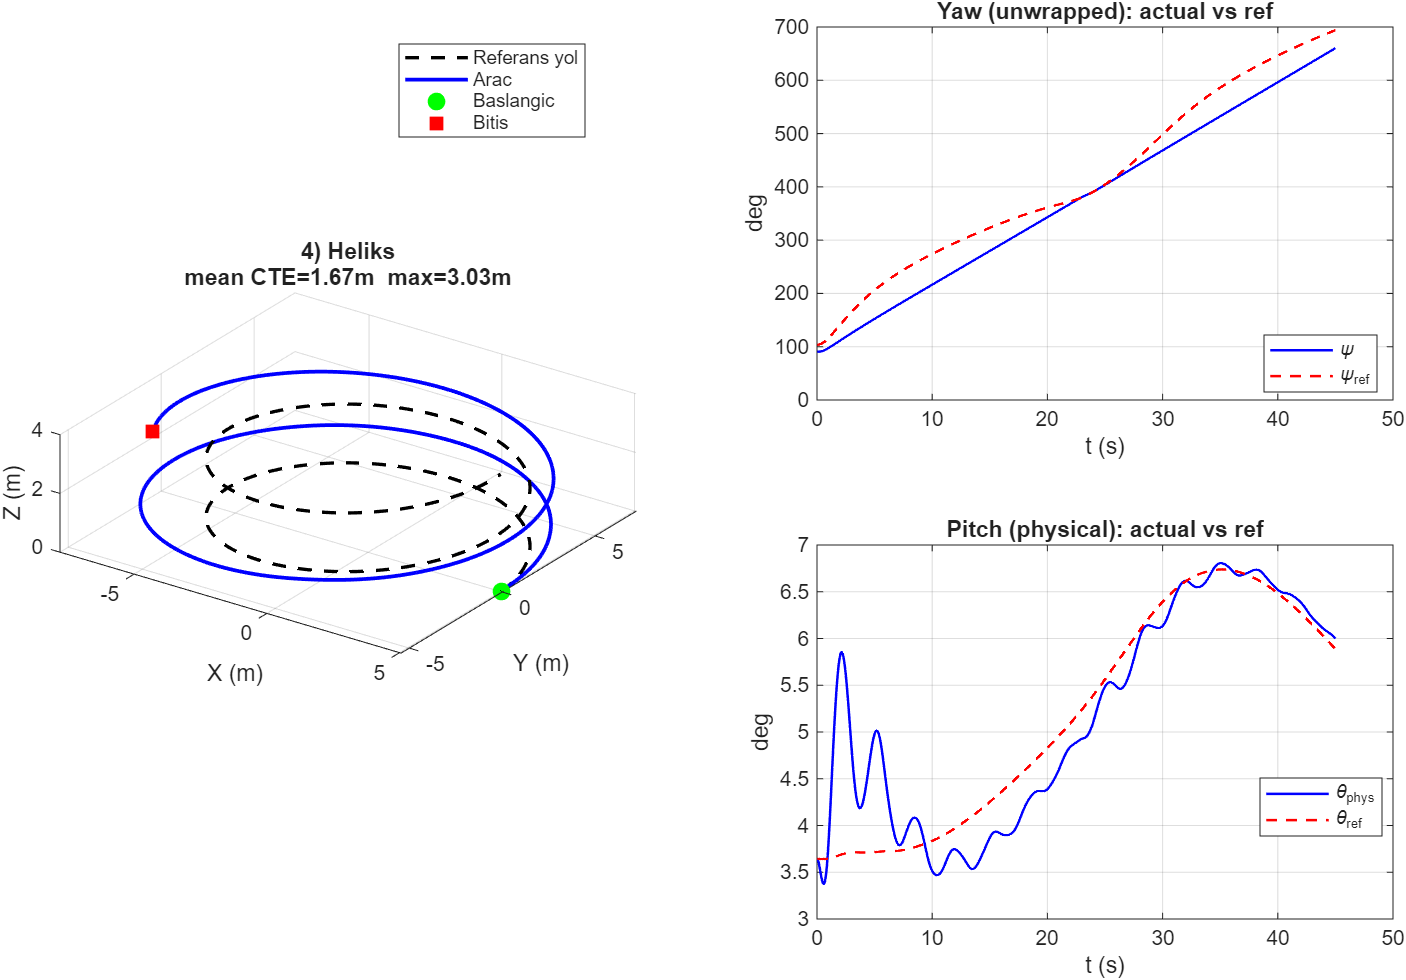
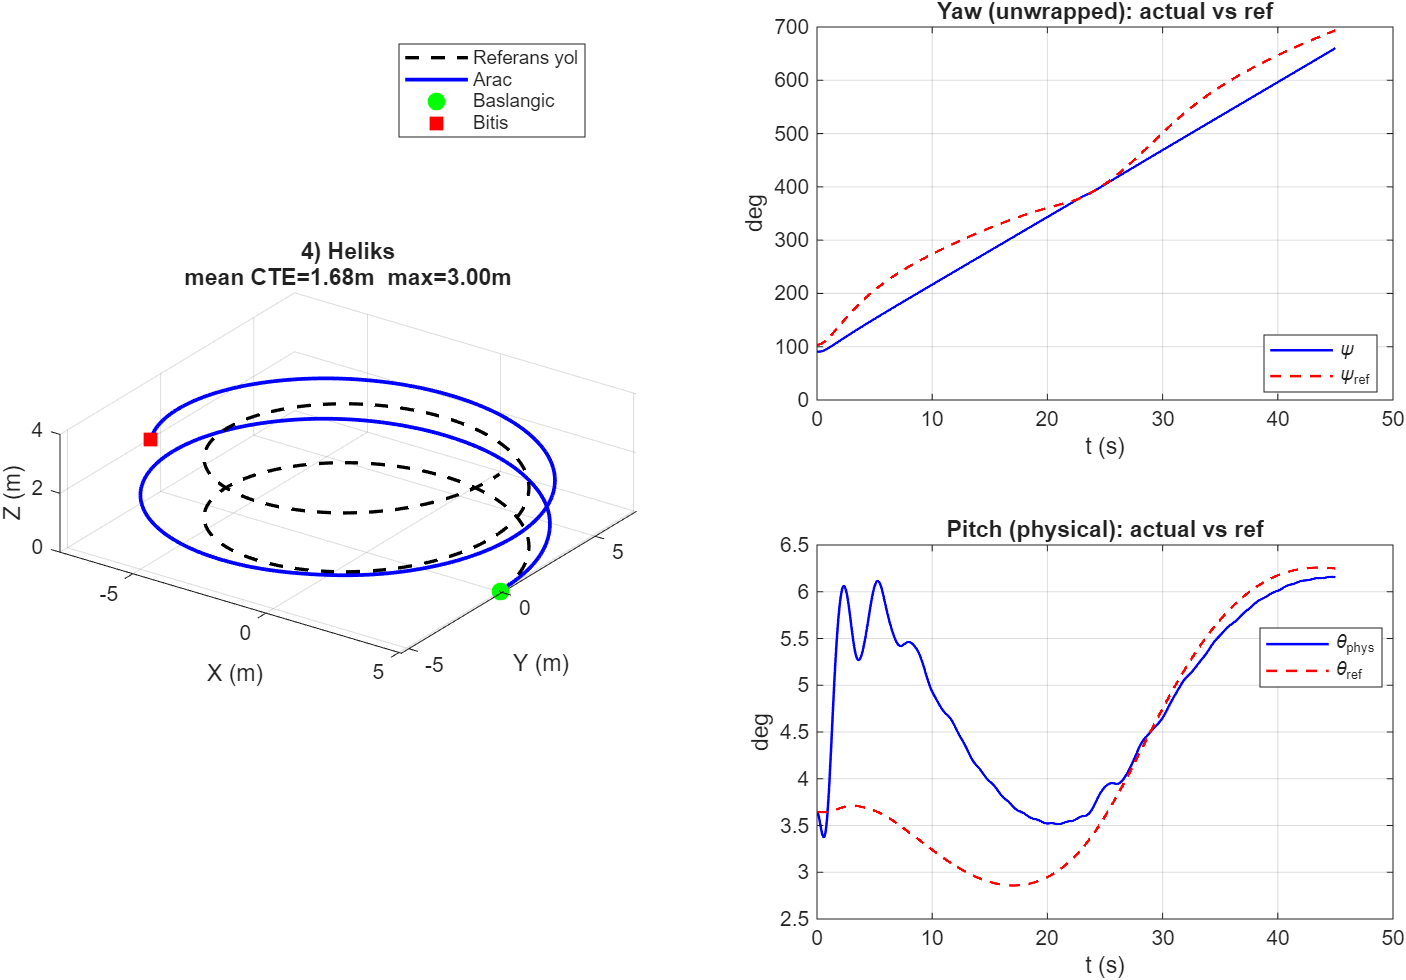
T2A: disable pitch rate integrator (Ki_rate=0)
Removes rate-loop integral action on T1B multi-rate baseline; cuts pitch chatter with modest pitch bias trade-off.

diff --git a/run_path_suite.m b/run_path_suite.m
@@ -79,13 +79,36 @@ function results = run_path_suite(do_calibrate)
             metrics.total_time = total_time;
             metrics.n_samples = size(vehicle_path, 1);
             metrics.dt = dt;
+            % Elevator / integrator diagnostics from continuous_path_tracking
+            global suite_delta_e_log suite_int_angle_log suite_int_rate_log
+            if ~isempty(suite_delta_e_log)
+                metrics.elevator_rms_deg = rad2deg(rms(suite_delta_e_log));
+                metrics.elevator_std_deg = rad2deg(std(suite_delta_e_log));
+            else
+                metrics.elevator_rms_deg = NaN;
+                metrics.elevator_std_deg = NaN;
+            end
+            if ~isempty(suite_int_angle_log)
+                metrics.int_angle_min = min(suite_int_angle_log);
+                metrics.int_angle_max = max(suite_int_angle_log);
+            else
+                metrics.int_angle_min = NaN;
+                metrics.int_angle_max = NaN;
+            end
+            if ~isempty(suite_int_rate_log)
+                metrics.int_rate_min = min(suite_int_rate_log);
+                metrics.int_rate_max = max(suite_int_rate_log);
+            else
+                metrics.int_rate_min = NaN;
+                metrics.int_rate_max = NaN;
+            end
 
             fig_path = fullfile(out_dir, sprintf('%02d_%s.png', k, sc.tag));
             save_suite_figure(sc, vehicle_path, times, orientations, yaw_refs, pitch_refs, metrics, fig_path);
 
-            fprintf('DONE  mean_cross_track=%.3f m | max=%.3f m | pitch_chatter=%.4f deg/s | mean|pitch|=%.2f deg | fig=%s\n\n', ...
+            fprintf('DONE  mean_cross_track=%.3f m | max=%.3f m | pitch_chatter=%.4f deg/s | mean|pitch|=%.2f deg | de_rms=%.2f deg | fig=%s\n\n', ...
                 metrics.mean_cross_track, metrics.max_cross_track, metrics.pitch_chatter_dps, ...
-                metrics.mean_pitch_err_deg, fig_path);
+                metrics.mean_pitch_err_deg, metrics.elevator_rms_deg, fig_path);
 
         catch ME
             metrics = struct( ...
@@ -276,6 +299,14 @@ function write_summary(results, summary_file)
         if isfield(r, 'pitch_chatter_dps')
             fprintf(fid, '  pitch chatter: %.4f deg/s\n', r.pitch_chatter_dps);
             fprintf(fid, '  theta pp (settle): %.3f deg\n', r.theta_pp_deg);
+        end
+        if isfield(r, 'elevator_rms_deg')
+            fprintf(fid, '  elevator RMS: %.3f deg\n', r.elevator_rms_deg);
+            fprintf(fid, '  elevator std: %.3f deg\n', r.elevator_std_deg);
+        end
+        if isfield(r, 'int_angle_min')
+            fprintf(fid, '  int_angle min/max: %.4f / %.4f rad\n', r.int_angle_min, r.int_angle_max);
+            fprintf(fid, '  int_rate  min/max: %.4f / %.4f rad\n', r.int_rate_min, r.int_rate_max);
         end
         if isfield(r, 'dt')
             fprintf(fid, '  dt: %.4f s\n', r.dt);

diff --git a/continuous_path_tracking.m b/continuous_path_tracking.m
@@ -25,6 +25,11 @@ function [vehicle_path, times, velocities, angular_velocities, orientations, tot
     yaw_refs = zeros(n_steps, 1);
     pitch_refs = zeros(n_steps, 1);
     u_refs = zeros(n_steps, 1);
+    % Optional 10th output via assignin not used; elevator logged for suite metrics
+    global last_int_angle last_int_rate last_delta_e
+    delta_e_log = zeros(n_steps, 1);
+    int_angle_log = zeros(n_steps, 1);
+    int_rate_log = zeros(n_steps, 1);
     total_time = 0;
     progress_index = 1;
 
@@ -79,6 +84,12 @@ function [vehicle_path, times, velocities, angular_velocities, orientations, tot
         yaw_refs(idx) = yaw_ref;
         pitch_refs(idx) = pitch_ref;
         u_refs(idx) = u_ref;
+        if isempty(last_delta_e); last_delta_e = 0; end
+        if isempty(last_int_angle); last_int_angle = 0; end
+        if isempty(last_int_rate); last_int_rate = 0; end
+        delta_e_log(idx) = last_delta_e;
+        int_angle_log(idx) = last_int_angle;
+        int_rate_log(idx) = last_int_rate;
         total_time = total_time + dt;
         times(idx) = total_time;
 
@@ -87,4 +98,10 @@ function [vehicle_path, times, velocities, angular_velocities, orientations, tot
                 idx, n_steps, total_time, current_u, rad2deg(current_orientation(3)), rad2deg(current_orientation(2)));
         end
     end
+
+    % Stash control diagnostics for suite metrics (caller reads globals)
+    global suite_delta_e_log suite_int_angle_log suite_int_rate_log
+    suite_delta_e_log = delta_e_log;
+    suite_int_angle_log = int_angle_log;
+    suite_int_rate_log = int_rate_log;
 end

diff --git a/controller_law.m b/controller_law.m
@@ -14,6 +14,7 @@ function [delta_r, delta_e, thrust] = controller_law(yaw_ref, pitch_ref, u_ref, 
     persistent prev_delta_e prev_delta_r
     persistent int_angle int_rate
     persistent rate_filt prev_e_rate
+    global last_int_angle last_int_rate last_delta_e  % diagnostics (T2)
 
     if isempty(prev_delta_e); prev_delta_e = 0; end
     if isempty(prev_delta_r); prev_delta_r = 0; end
@@ -89,10 +90,15 @@ function [delta_r, delta_e, thrust] = controller_law(yaw_ref, pitch_ref, u_ref, 
     end
 
     max_dr = deg2rad(40) * dt;
-    max_de = deg2rad(40) * dt;    delta_r = prev_delta_r + max(min(delta_r_cmd - prev_delta_r, max_dr), -max_dr);
+    max_de = deg2rad(40) * dt;
+    delta_r = prev_delta_r + max(min(delta_r_cmd - prev_delta_r, max_dr), -max_dr);
     delta_e = prev_delta_e + max(min(delta_e_cmd - prev_delta_e, max_de), -max_de);
     prev_delta_r = delta_r;
     prev_delta_e = delta_e;
+
+    last_int_angle = int_angle;
+    last_int_rate = int_rate;
+    last_delta_e = delta_e;
 
     thrust = thrust_trim + Kp_x * (u_ref - u);
     thrust = max(min(thrust, thrust_max), thrust_min);

diff --git a/init_parameters.m b/init_parameters.m
@@ -60,7 +60,7 @@ function init_parameters()
     Kp_angle = 1.25;   % [1/s]  e_theta -> rate cmd
     Ki_angle = 0.16;
     Kp_rate  = 0.95;   % [s]    e_rate -> elevator
-    Ki_rate  = 0.30;
+    Ki_rate  = 0.0;   % T2A: disable pitch rate integrator
     Kaw_pitch = 1.2;
     Kd_rate = 0.0;     % e_rate derivative off
     Kd_damp = 0.80;    % physical-rate damping on elevator [s]

diff --git a/suite_results/T2A_RESULTS.md b/suite_results/T2A_RESULTS.md
@@ -1,0 +1,25 @@
+# T2A — Ki_rate = 0
+
+Baseline: T1B (`dt_c=0.025`, `dt_g=0.075`, `tau_rate≈0.7118 s`). Only change: `Ki_rate = 0`.
+
+## T1B → T2A (runs identical)
+
+| Scenario | CTE mean | \|pitch\| | chatter (deg/s) | θ pp | de RMS (deg) |
+|----------|----------|-----------|-----------------|------|--------------|
+| X-line   | 2.057→**2.014** | 0.48→**1.44** | 0.501→**0.312** | 2.64→2.18 | 5.64 |
+| XZ       | 2.546→2.565 | 0.60→0.59 | 0.659→**0.412** | — | 2.12 |
+| Circle   | 1.535→**1.518** | 0.42→1.02 | 0.190→**0.128** | 3.38→2.18 | 7.11 |
+| Helix    | 1.673→1.682 | 0.32→0.74 | 0.201→**0.132** | 3.34→2.64 | 6.33 |
+
+### Integrators (X-line)
+- `int_angle` min/max: -0.452 / 0.000 rad (outer I still active)
+- `int_rate` still accumulates in code but **Ki_rate·int_rate = 0** (unused)
+
+## Acceptance
+- Chatter down ~38% on X, ~37% on XZ: **PASS** (still >0.20 on X)
+- CTE not worse: **PASS**
+- Pitch mean error up on level paths (rate I removed → trim bias): expected trade-off
+- Elevator not hard-saturating (RMS ≪ 15°)
+
+## Verdict
+**ACCEPT** — keep Ki_rate=0; proceed to T2B tau reduction for further chatter cut.
